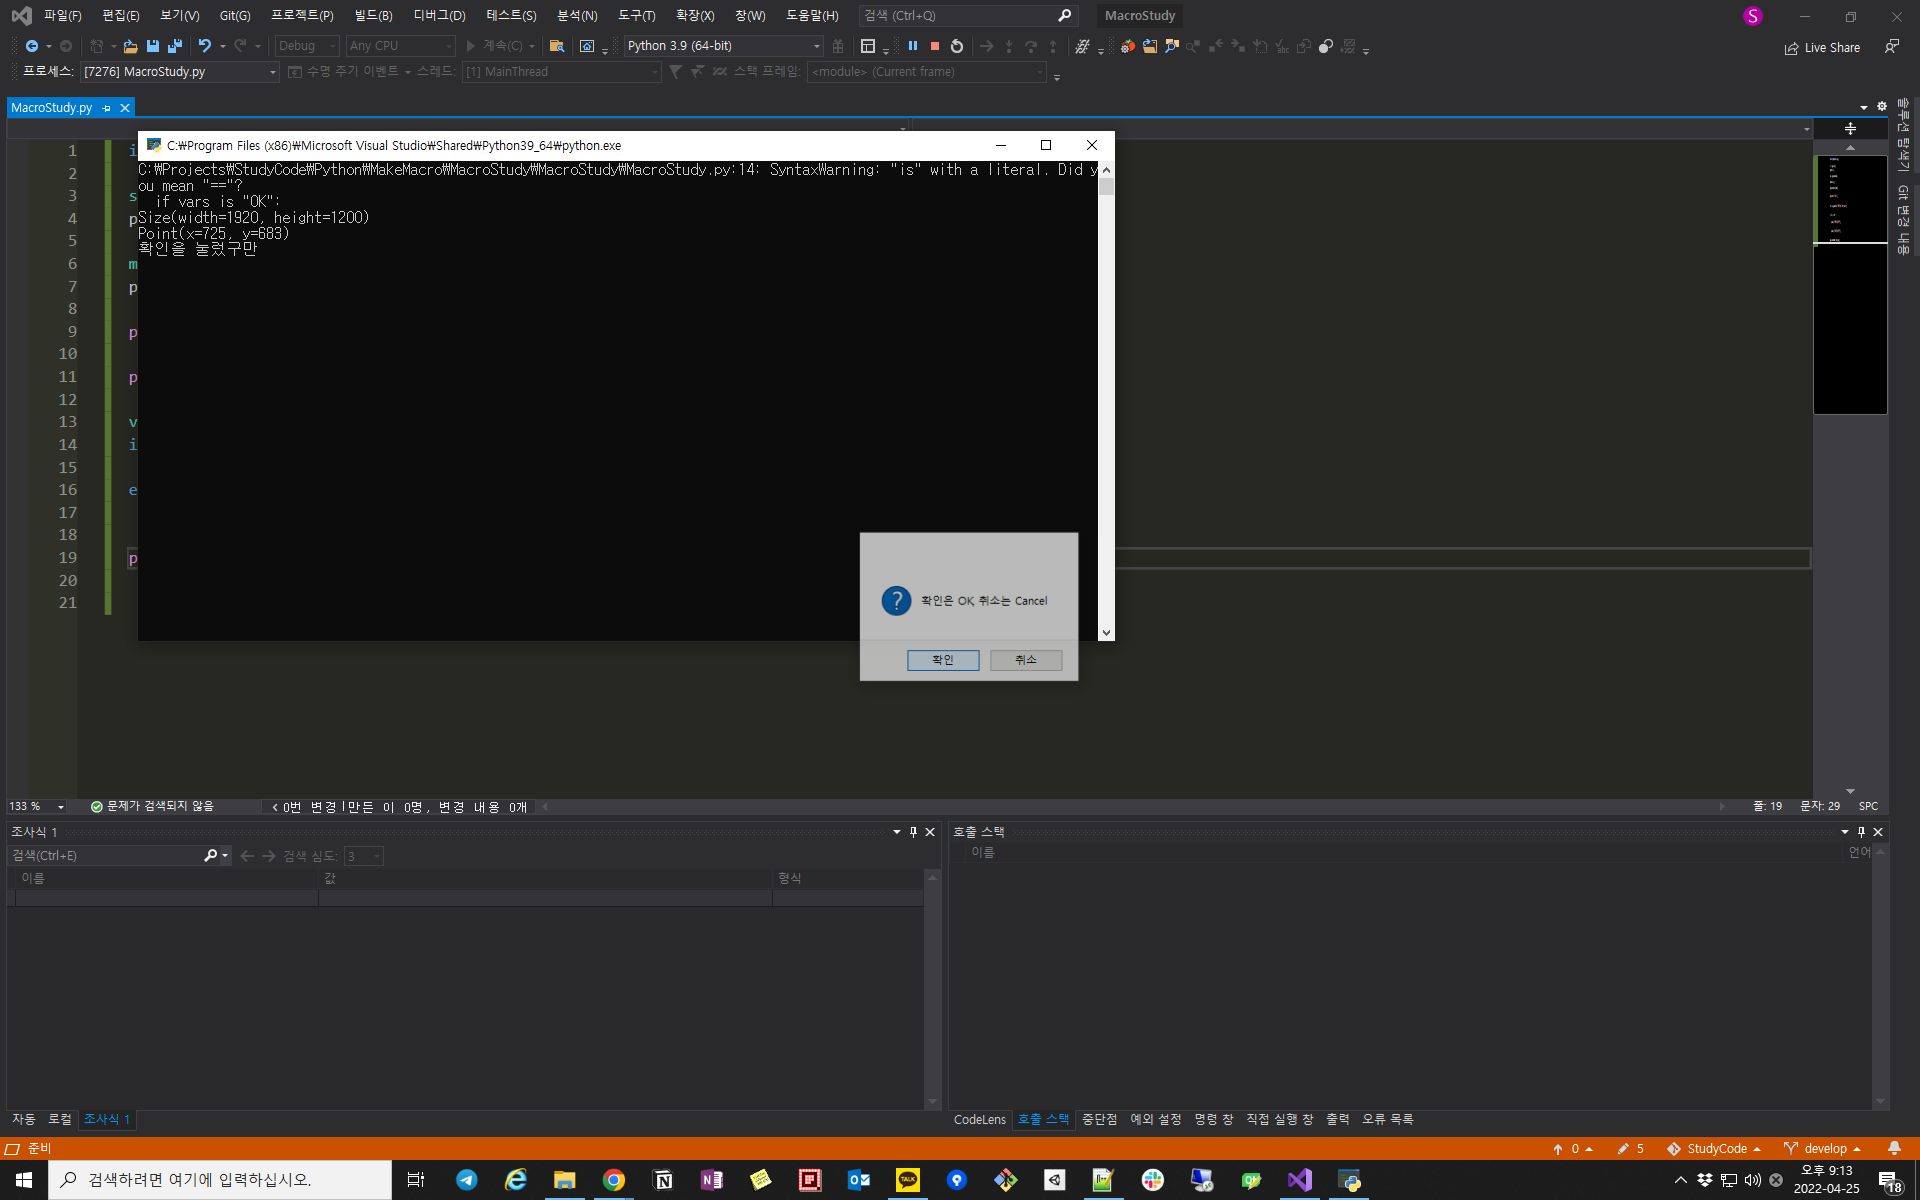
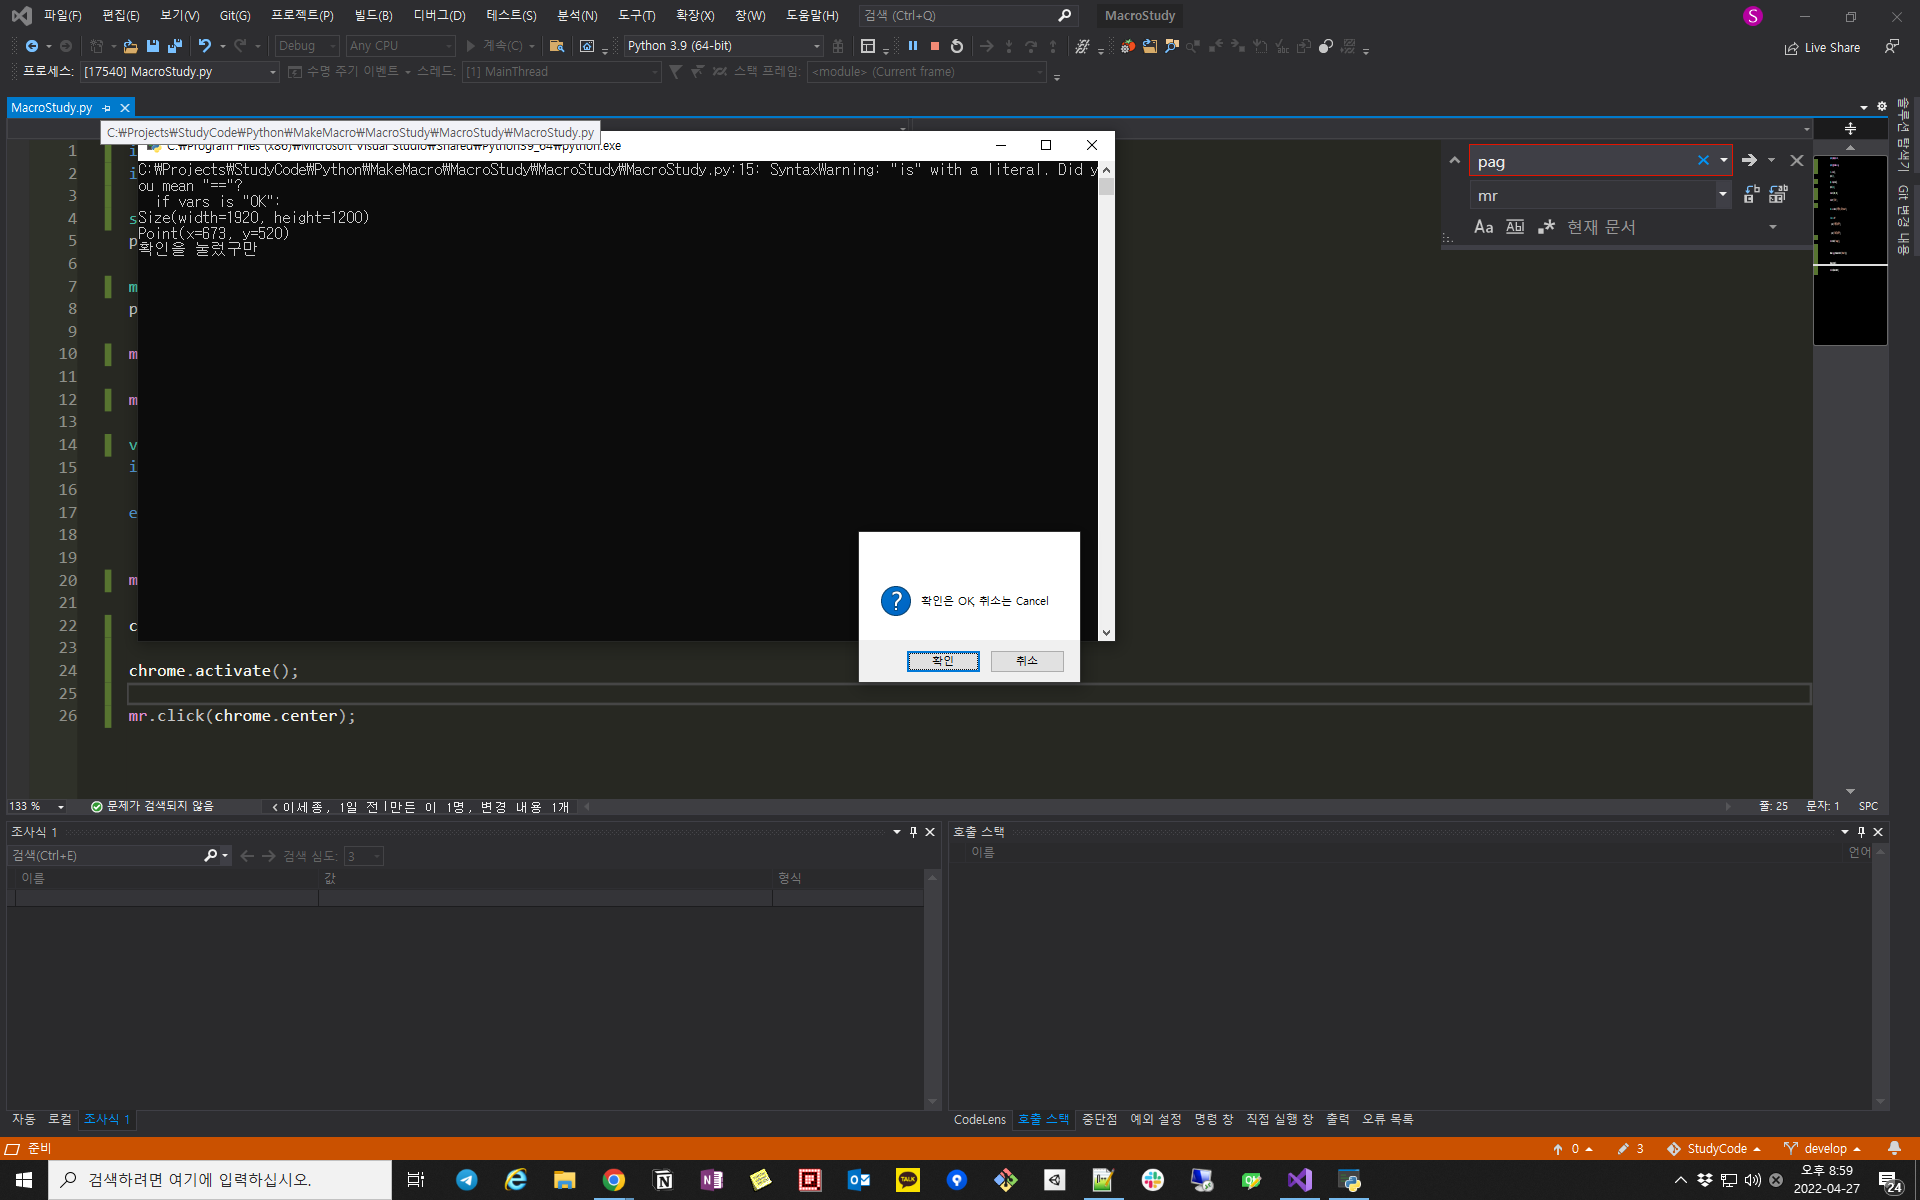
Macro Study

diff --git a/Python/MakeMacro/MacroStudy/MacroStudy/MacroStudy.py b/Python/MakeMacro/MacroStudy/MacroStudy/MacroStudy.py
@@ -1,20 +1,26 @@
-import pyautogui as pag;
+import pyautogui as mr;
+import pygetwindow as gw;
 
-sr = pag.size();
+sr = mr.size();
 print( sr );
 
-mpt = pag.position();
+mpt = mr.position();
 print( mpt );
 
-pag.moveTo( 100, 100 );
+mr.moveTo( 100, 100 );
 
-pag.alert( "경고!!" );
+mr.alert( "경고!!" );
 
-vars = pag.confirm( "확인은 OK, 취소는 Cancel" );
+vars = mr.confirm( "확인은 OK, 취소는 Cancel" );
 if vars is "OK":
     print( "확인을 눌렀구만" );
 else:
     print( "취소를 눌렀구만" );
 
-pag.screenshot( "foo.png" );
+mr.screenshot( "foo.png" );
 
+chrome = gw.getWindowsWithTitle( "Chrome" )[0];
+
+chrome.activate();
+
+mr.click(chrome.center);
